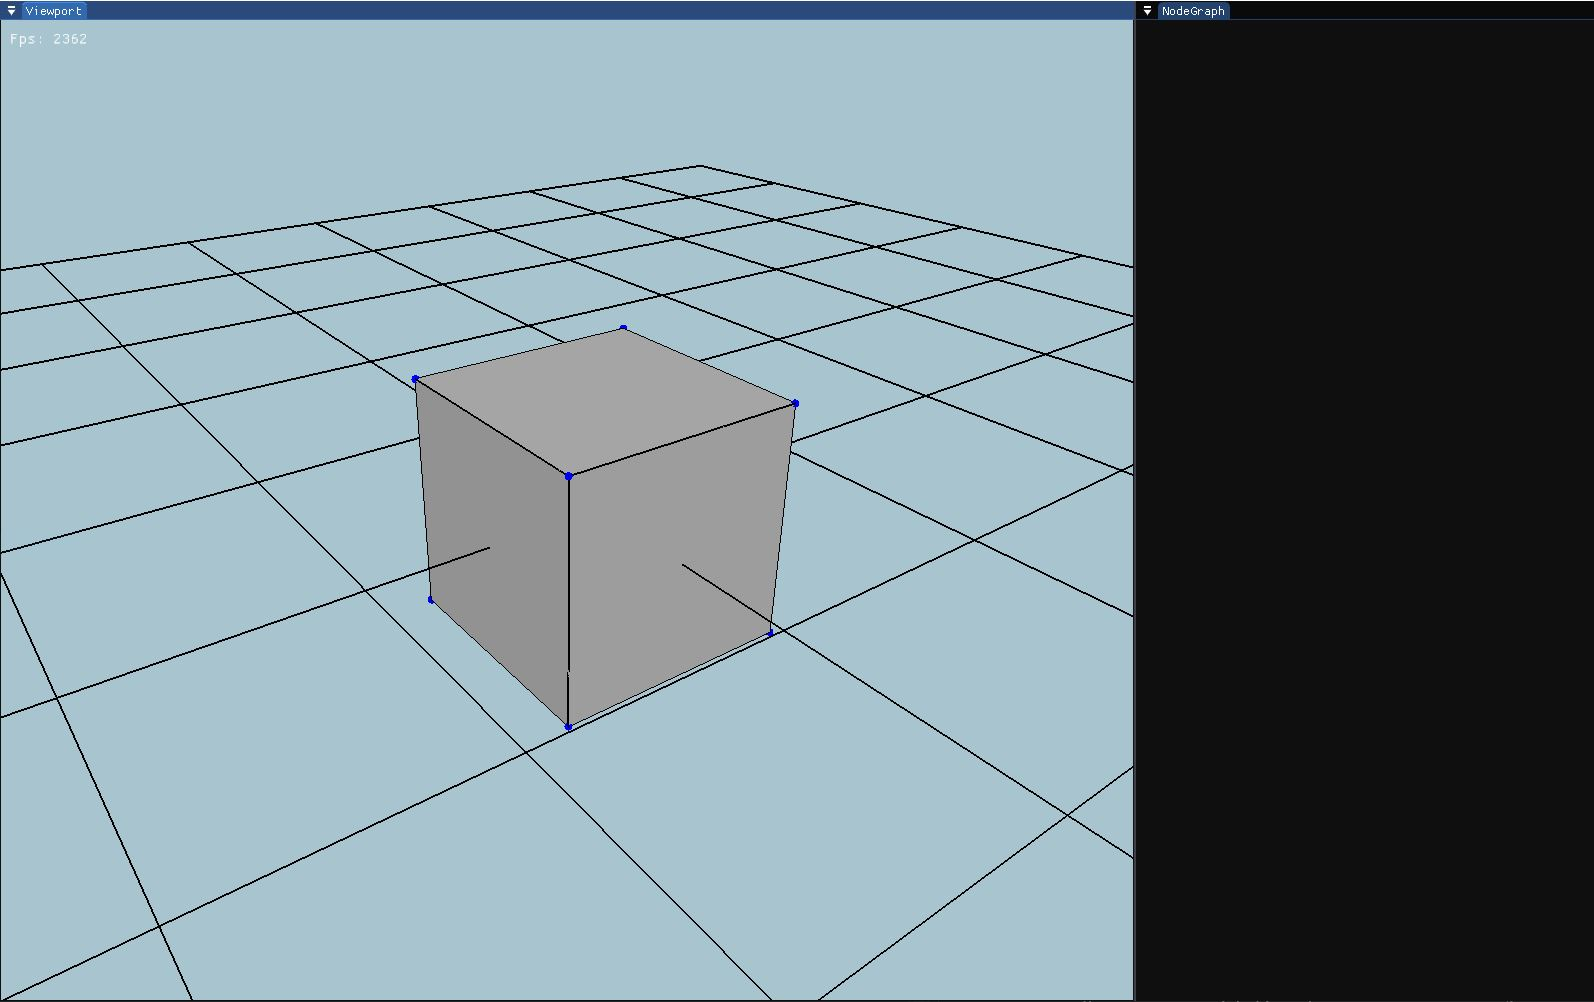
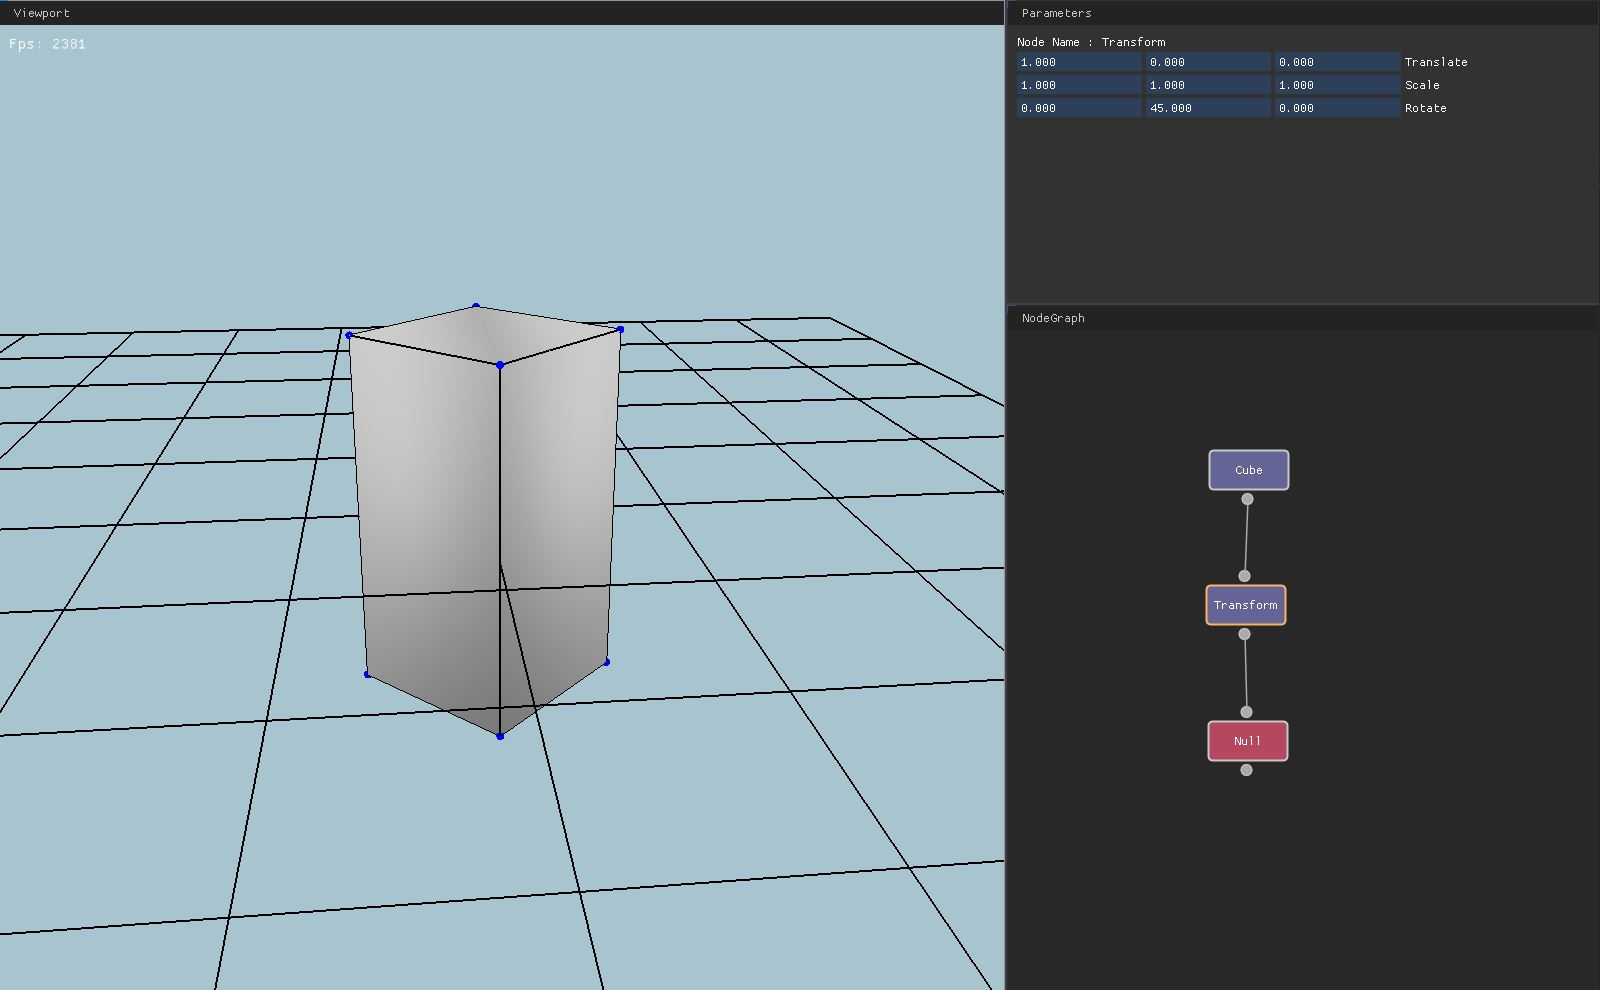
update readme

diff --git a/README.md b/README.md
@@ -1,13 +1,25 @@
 # Euclide WIP
 
 Euclide is a node-based 3D engine currently in development.
-At this point only the rendering part works, I'm working on the node graph system. 
 
-## Rendering
+## Nodes
 
-You can move with your mouse buttons (pan, zoom, orbit) in the scene.
+Current working nodes: (I will add more over time)
+- Cube
+- Transform
+- Null
 
 ![Image](./readme/interface.jpg)
+
+## Viewport
+
+You can move with your mouse buttons (pan, zoom, orbit) in the scene.
+Yo can also press F to recenter the camera to the object.
+
+## Parameters
+
+When you select a node, there is a parameters tab that open.
+You can change parameters value !
 
 ## Geometry System
 

diff --git a/TODO.md b/TODO.md
@@ -1,5 +1,5 @@
 Interface :
-	- Modify UI
+	- Upgrade UI
 
 NodeGraph:
 	- Cut connections
